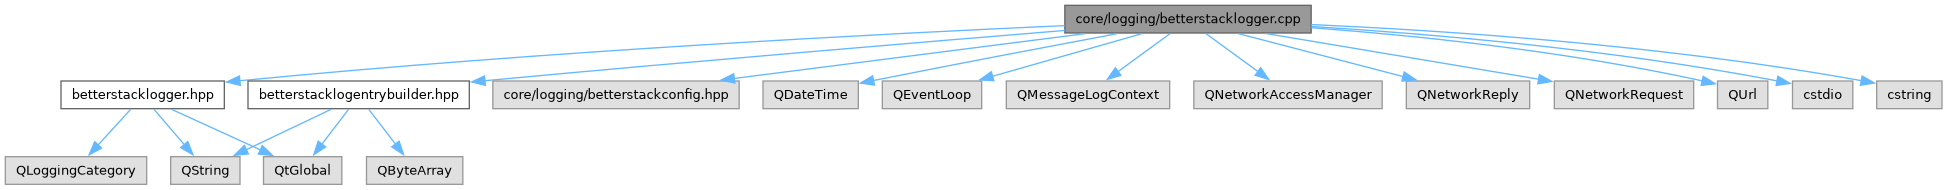
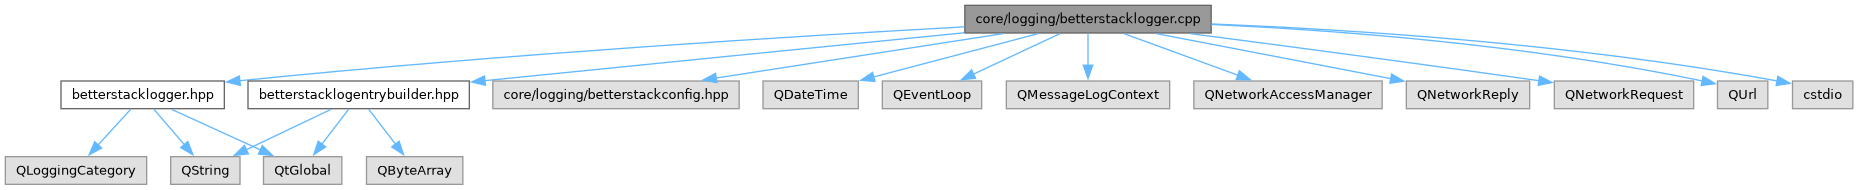
deploy: 1b6434b201799185c4910a3db5311204746f5887

diff --git a/betterstacklogger_8hpp_source.html b/betterstacklogger_8hpp_source.html
@@ -110,13 +110,20 @@ $(function(){initNavTree('betterstacklogger_8hpp_source.html','',''); });
 <div class="line"><a id="l00026" name="l00026"></a><span class="lineno">   26</span></div>
 <div class="line"><a id="l00033" name="l00033"></a><span class="lineno">   33</span>    <span class="keyword">static</span> <span class="keywordtype">void</span> <a class="code hl_function" href="classBetterStackLogger.html#adcfa1d5b2da0cd60bebc50e5d2d183ce">install</a>();</div>
 <div class="line"><a id="l00034" name="l00034"></a><span class="lineno">   34</span> </div>
-<div class="line"><a id="l00035" name="l00035"></a><span class="lineno">   35</span><span class="keyword">private</span>:</div>
-<div class="line"><a id="l00044" name="l00044"></a><span class="lineno">   44</span>    <span class="keyword">static</span> <span class="keywordtype">void</span> messageHandler(QtMsgType type, <span class="keyword">const</span> QMessageLogContext &amp;context, <span class="keyword">const</span> QString &amp;message);</div>
-<div class="line"><a id="l00045" name="l00045"></a><span class="lineno">   45</span></div>
-<div class="line"><a id="l00054" name="l00054"></a><span class="lineno">   54</span>    <span class="keyword">static</span> <span class="keywordtype">void</span> send(QtMsgType type, <span class="keyword">const</span> QString &amp;message, <span class="keyword">const</span> QString &amp;category);</div>
-<div class="line"><a id="l00055" name="l00055"></a><span class="lineno">   55</span>};</div>
+<div class="line"><a id="l00035" name="l00035"></a><span class="lineno">   35</span><span class="preprocessor">#if defined(BUILD_TESTING)</span></div>
+<div class="line"><a id="l00036" name="l00036"></a><span class="lineno">   36</span><span class="keyword">protected</span>:</div>
+<div class="line"><a id="l00037" name="l00037"></a><span class="lineno">   37</span><span class="preprocessor">#else</span></div>
+<div class="line"><a id="l00038" name="l00038"></a><span class="lineno">   38</span><span class="keyword">private</span>:</div>
+<div class="line"><a id="l00039" name="l00039"></a><span class="lineno">   39</span><span class="preprocessor">#endif</span><span class="preprocessor"></span></div>
+<div class="line"><a id="l00048" name="l00048"></a><span class="lineno">   48</span>    <span class="keyword">static</span> <span class="keywordtype">void</span> messageHandler(QtMsgType type, <span class="keyword">const</span> QMessageLogContext &amp;context, <span class="keyword">const</span> QString &amp;message);</div>
+<div class="line"><a id="l00049" name="l00049"></a><span class="lineno">   49</span></div>
+<div class="line"><a id="l00058" name="l00058"></a><span class="lineno">   58</span>    <span class="keyword">static</span> <span class="keywordtype">void</span> send(QtMsgType type, <span class="keyword">const</span> QString &amp;message, <span class="keyword">const</span> QString &amp;category);</div>
+<div class="line"><a id="l00059" name="l00059"></a><span class="lineno">   59</span></div>
+<div class="line"><a id="l00061" name="l00061"></a><span class="lineno">   61</span>    <span class="keyword">static</span> QString s_ingestingHost;</div>
+<div class="line"><a id="l00063" name="l00063"></a><span class="lineno">   63</span>    <span class="keyword">static</span> QString s_sourceToken;</div>
+<div class="line"><a id="l00064" name="l00064"></a><span class="lineno">   64</span>};</div>
 </div>
-<div class="ttc" id="aclassBetterStackLogger_html_adcfa1d5b2da0cd60bebc50e5d2d183ce"><div class="ttname"><a href="classBetterStackLogger.html#adcfa1d5b2da0cd60bebc50e5d2d183ce">BetterStackLogger::install</a></div><div class="ttdeci">static void install()</div><div class="ttdoc">Installs the process-wide Qt message handler, unless no destination was compiled in....</div><div class="ttdef"><b>Definition</b> betterstacklogger.cpp:19</div></div>
+<div class="ttc" id="aclassBetterStackLogger_html_adcfa1d5b2da0cd60bebc50e5d2d183ce"><div class="ttname"><a href="classBetterStackLogger.html#adcfa1d5b2da0cd60bebc50e5d2d183ce">BetterStackLogger::install</a></div><div class="ttdeci">static void install()</div><div class="ttdoc">Installs the process-wide Qt message handler, unless no destination was compiled in....</div><div class="ttdef"><b>Definition</b> betterstacklogger.cpp:21</div></div>
 <div class="ttc" id="aclassBetterStackLogger_html_ae991e9376078386ff9ac801f6a9cd471"><div class="ttname"><a href="classBetterStackLogger.html#ae991e9376078386ff9ac801f6a9cd471">BetterStackLogger::BetterStackLogger</a></div><div class="ttdeci">BetterStackLogger()=delete</div></div>
 </div><!-- fragment --></div><!-- contents -->
 </div><!-- doc-content -->

diff --git a/betterstacklogger_8cpp.html b/betterstacklogger_8cpp.html
@@ -102,37 +102,34 @@ $(function(){initNavTree('betterstacklogger_8cpp.html','',''); });
 <code>#include &lt;QNetworkRequest&gt;</code><br />
 <code>#include &lt;QUrl&gt;</code><br />
 <code>#include &lt;cstdio&gt;</code><br />
-<code>#include &lt;cstring&gt;</code><br />
 </div><div class="textblock"><div class="dynheader">
 Include dependency graph for betterstacklogger.cpp:</div>
 <div class="dyncontent">
 <div class="center"><img src="betterstacklogger_8cpp__incl.png" border="0" usemap="#acore_2logging_2betterstacklogger_8cpp" loading="lazy" alt=""/></div>
 <map name="acore_2logging_2betterstacklogger_8cpp" id="acore_2logging_2betterstacklogger_8cpp">
-<area shape="rect" title=" " alt="" coords="1065,5,1311,33"/>
+<area shape="rect" title=" " alt="" coords="965,5,1211,33"/>
 <area shape="rect" href="betterstacklogger_8hpp.html" title=" " alt="" coords="61,81,224,109"/>
-<area shape="poly" title=" " alt="" coords="1062,26,699,48,472,63,240,83,239,78,471,58,699,42,1067,25"/>
+<area shape="poly" title=" " alt="" coords="962,27,641,50,240,83,239,78,641,44,967,26"/>
 <area shape="rect" href="betterstacklogentrybuilder_8hpp.html" title=" " alt="" coords="248,81,469,109"/>
-<area shape="poly" title=" " alt="" coords="1064,33,485,83,485,78,1065,28"/>
+<area shape="poly" title=" " alt="" coords="962,35,485,83,485,78,966,31"/>
 <area shape="rect" title=" " alt="" coords="493,81,739,109"/>
-<area shape="poly" title=" " alt="" coords="1082,34,734,81,734,76,1088,33"/>
+<area shape="poly" title=" " alt="" coords="1006,33,716,81,716,75,1000,34"/>
 <area shape="rect" title=" " alt="" coords="763,81,858,109"/>
-<area shape="poly" title=" " alt="" coords="1120,33,874,83,873,78,1115,34"/>
+<area shape="poly" title=" " alt="" coords="1041,33,874,80,873,74,1036,34"/>
 <area shape="rect" title=" " alt="" coords="882,81,982,109"/>
-<area shape="poly" title=" " alt="" coords="1145,33,993,79,992,74,1140,34"/>
+<area shape="poly" title=" " alt="" coords="1063,33,974,77,973,72,1058,34"/>
 <area shape="rect" title=" " alt="" coords="1006,81,1170,109"/>
-<area shape="poly" title=" " alt="" coords="1173,33,1119,74,1117,69,1168,34"/>
+<area shape="poly" title=" " alt="" coords="1090,32,1090,67,1086,64,1086,36"/>
 <area shape="rect" title=" " alt="" coords="1194,81,1382,109"/>
-<area shape="poly" title=" " alt="" coords="1207,31,1261,72,1256,71,1205,36"/>
+<area shape="poly" title=" " alt="" coords="1124,31,1241,76,1236,75,1123,36"/>
 <area shape="rect" title=" " alt="" coords="1406,81,1530,109"/>
-<area shape="poly" title=" " alt="" coords="1238,31,1406,77,1401,77,1238,36"/>
+<area shape="poly" title=" " alt="" coords="1157,31,1393,79,1388,79,1156,36"/>
 <area shape="rect" title=" " alt="" coords="1554,81,1694,109"/>
-<area shape="poly" title=" " alt="" coords="1267,31,1542,79,1536,79,1266,36"/>
+<area shape="poly" title=" " alt="" coords="1190,31,1542,81,1537,81,1190,36"/>
 <area shape="rect" title=" " alt="" coords="1718,81,1768,109"/>
-<area shape="poly" title=" " alt="" coords="1312,25,1493,43,1597,58,1705,81,1700,81,1596,63,1492,48,1311,30"/>
+<area shape="poly" title=" " alt="" coords="1212,22,1437,38,1569,55,1705,81,1700,81,1568,60,1436,44,1212,27"/>
 <area shape="rect" title=" " alt="" coords="1792,81,1853,109"/>
-<area shape="poly" title=" " alt="" coords="1311,24,1525,42,1650,57,1780,81,1775,81,1650,63,1525,47,1311,29"/>
-<area shape="rect" title=" " alt="" coords="1877,81,1942,109"/>
-<area shape="poly" title=" " alt="" coords="1311,22,1562,39,1711,55,1864,81,1859,81,1710,60,1562,44,1311,27"/>
+<area shape="poly" title=" " alt="" coords="1211,21,1469,38,1622,54,1780,81,1775,81,1621,60,1468,43,1212,27"/>
 <area shape="rect" title=" " alt="" coords="5,157,147,184"/>
 <area shape="poly" title=" " alt="" coords="133,108,100,147,96,143,128,110"/>
 <area shape="rect" title=" " alt="" coords="171,157,240,184"/>
